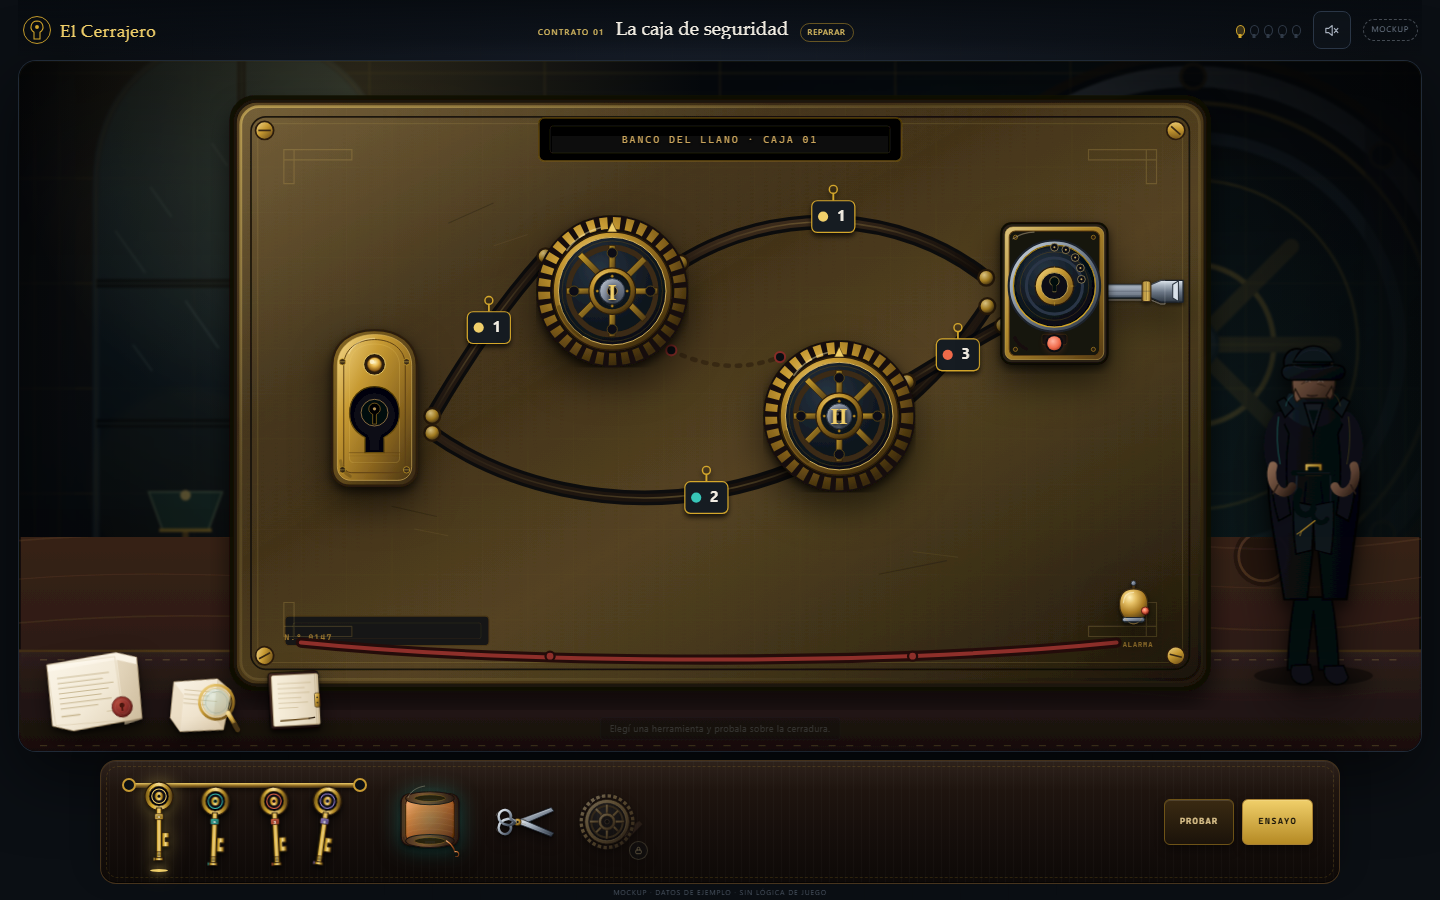
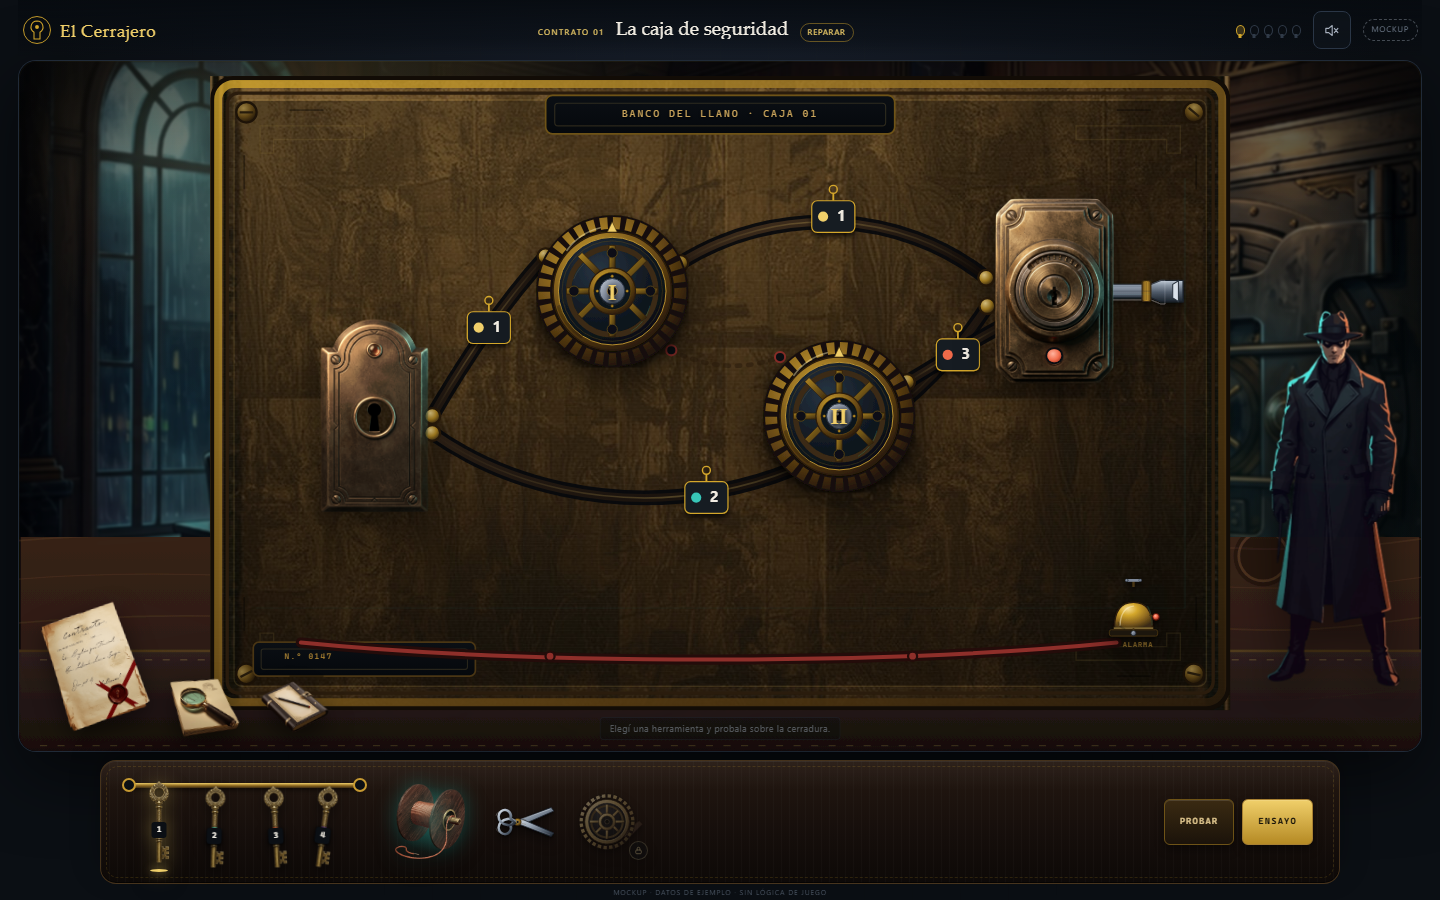
feat(mockup): integrate generated art and refine the workshop
Use the AI background, thief, lock, entry, keys, and paper props. Recolor key variants, compose the plate from texture and frame, and document the web asset review.

diff --git a/mockups/nivel-1-taller/index.html b/mockups/nivel-1-taller/index.html
@@ -46,28 +46,29 @@
     </header>
 
     <main class="stage" id="stage" aria-label="Mesa de trabajo del taller">
-      <img class="scene" src="assets/sprites/fondo-banco.svg" alt="" aria-hidden="true" draggable="false" data-sprite="fondo-banco">
+      <img class="scene" src="assets/sprites/fondo-banco.jpg" alt="" aria-hidden="true" draggable="false" data-sprite="fondo-banco">
       <div class="stage-light" aria-hidden="true"></div>
       <img class="bench" src="assets/sprites/mesa-madera.svg" alt="" aria-hidden="true" draggable="false" data-sprite="mesa-madera">
-      <img class="thief" id="thief" src="assets/sprites/ladron.svg" alt="El ladrón observa desde la penumbra" draggable="false" data-sprite="ladron">
+      <img class="thief" id="thief" src="assets/sprites/ladron.png" alt="El ladrón observa desde la penumbra" draggable="false" data-sprite="ladron">
 
       <div class="table-objects" aria-label="Objetos sobre la mesa">
         <button class="table-object object-contract" type="button" data-overlay="contract" aria-haspopup="dialog" aria-label="Abrir el contrato">
-          <img src="assets/sprites/contrato.svg" alt="" draggable="false" data-sprite="contrato">
+          <img src="assets/sprites/contrato.png" alt="" draggable="false" data-sprite="contrato">
           <span class="object-caption">Contrato</span>
         </button>
         <button class="table-object object-hint" type="button" data-overlay="hint" aria-haspopup="dialog" aria-label="Abrir la pista">
-          <img src="assets/sprites/nota-pista.svg" alt="" draggable="false" data-sprite="nota-pista">
+          <img src="assets/sprites/nota-pista.png" alt="" draggable="false" data-sprite="nota-pista">
           <span class="object-caption">Pista</span>
         </button>
         <button class="table-object object-log" type="button" data-overlay="log" aria-haspopup="dialog" aria-label="Abrir la bitácora">
-          <img src="assets/sprites/libreta.svg" alt="" draggable="false" data-sprite="libreta">
+          <img src="assets/sprites/libreta.png" alt="" draggable="false" data-sprite="libreta">
           <span class="object-caption">Bitácora</span>
         </button>
       </div>
 
       <div class="mechanism-wrap" id="mechanism">
-        <img class="plate" src="assets/sprites/placa-mecanismo.svg" alt="" aria-hidden="true" draggable="false" data-sprite="placa-mecanismo">
+        <img class="plate-texture" src="assets/sprites/placa-textura.jpg" alt="" aria-hidden="true" draggable="false" data-sprite="placa-textura">
+        <img class="plate-frame" src="assets/sprites/placa-marco.svg" alt="" aria-hidden="true" draggable="false" data-sprite="placa-marco">
         <span class="plate-label">Banco del Llano · Caja 01</span>
         <span class="plate-serial">N.º 0147</span>
 
@@ -184,7 +185,7 @@
 
         <div class="part part-entry" data-part="entry" role="button" tabindex="0" aria-label="Entrada del mecanismo">
           <span class="part-aura" aria-hidden="true"></span>
-          <img src="assets/sprites/bocallave-entrada.svg" alt="" draggable="false" data-sprite="bocallave-entrada">
+          <img src="assets/sprites/bocallave-entrada.png" alt="" draggable="false" data-sprite="bocallave-entrada">
         </div>
 
         <div class="part part-gear part-gear-1" data-part="gear-1" role="button" tabindex="0" aria-label="Rueda de memoria I">
@@ -202,7 +203,7 @@
         <div class="part part-lock" data-part="lock" role="button" tabindex="0" aria-label="Cerrojo de la caja">
           <span class="part-aura" aria-hidden="true"></span>
           <img class="lock-bolt" src="assets/sprites/perno.svg" alt="" draggable="false" data-sprite="perno">
-          <img class="lock-body" src="assets/sprites/cilindro-cerradura.svg" alt="" draggable="false" data-sprite="cilindro-cerradura">
+          <img class="lock-body" src="assets/sprites/cilindro-cerradura.png" alt="" draggable="false" data-sprite="cilindro-cerradura">
           <span class="lock-led" aria-hidden="true"></span>
         </div>
 
@@ -212,7 +213,7 @@
       </div>
 
       <div class="tool-cursor" id="tool-cursor" hidden aria-hidden="true">
-        <img id="tool-cursor-img" src="assets/sprites/carrete-cobre.svg" alt="" draggable="false">
+        <img id="tool-cursor-img" src="assets/sprites/carrete-cobre.png" alt="" draggable="false">
         <span class="cursor-dot"></span>
       </div>
 
@@ -225,20 +226,24 @@
       <div class="inventory-keys">
         <span class="key-rail" aria-hidden="true"></span>
         <div class="key-row">
-          <button class="inventory-item inventory-key is-active" type="button" data-tool="key" data-key="1" aria-label="Llave 1">
-            <img src="assets/sprites/llave-1.svg" alt="" draggable="false" data-sprite="llave-1">
+          <button class="inventory-item inventory-key is-active" type="button" data-tool="key" data-key="1" data-cursor="assets/sprites/llave-cursor.png" aria-label="Llave 1">
+            <img src="assets/sprites/llave-1.png" alt="" draggable="false" data-sprite="llave-1">
+            <span class="key-number" aria-hidden="true">1</span>
             <span class="item-name">Llave 1</span>
           </button>
-          <button class="inventory-item inventory-key" type="button" data-tool="key" data-key="2" aria-label="Llave 2">
-            <img src="assets/sprites/llave-2.svg" alt="" draggable="false" data-sprite="llave-2">
+          <button class="inventory-item inventory-key" type="button" data-tool="key" data-key="2" data-cursor="assets/sprites/llave-cursor.png" aria-label="Llave 2">
+            <img src="assets/sprites/llave-2.png" alt="" draggable="false" data-sprite="llave-2">
+            <span class="key-number" aria-hidden="true">2</span>
             <span class="item-name">Llave 2</span>
           </button>
-          <button class="inventory-item inventory-key" type="button" data-tool="key" data-key="3" aria-label="Llave 3">
-            <img src="assets/sprites/llave-3.svg" alt="" draggable="false" data-sprite="llave-3">
+          <button class="inventory-item inventory-key" type="button" data-tool="key" data-key="3" data-cursor="assets/sprites/llave-cursor.png" aria-label="Llave 3">
+            <img src="assets/sprites/llave-3.png" alt="" draggable="false" data-sprite="llave-3">
+            <span class="key-number" aria-hidden="true">3</span>
             <span class="item-name">Llave 3</span>
           </button>
-          <button class="inventory-item inventory-key" type="button" data-tool="key" data-key="4" aria-label="Llave 4">
-            <img src="assets/sprites/llave-4.svg" alt="" draggable="false" data-sprite="llave-4">
+          <button class="inventory-item inventory-key" type="button" data-tool="key" data-key="4" data-cursor="assets/sprites/llave-cursor.png" aria-label="Llave 4">
+            <img src="assets/sprites/llave-4.png" alt="" draggable="false" data-sprite="llave-4">
+            <span class="key-number" aria-hidden="true">4</span>
             <span class="item-name">Llave 4</span>
           </button>
         </div>
@@ -246,7 +251,7 @@
 
       <div class="inventory-tools">
         <button class="inventory-item inventory-tool is-active" type="button" data-tool="wire" aria-label="Carrete de cobre">
-          <img src="assets/sprites/carrete-cobre.svg" alt="" draggable="false" data-sprite="carrete-cobre">
+          <img src="assets/sprites/carrete-cobre.png" alt="" draggable="false" data-sprite="carrete-cobre">
           <span class="item-name">Cable</span>
         </button>
         <button class="inventory-item inventory-tool" type="button" data-tool="scissors" aria-label="Tijeras">

diff --git a/mockups/nivel-1-taller/styles.css b/mockups/nivel-1-taller/styles.css
@@ -490,7 +490,16 @@ body.has-custom-cursor[data-tool="scissors"] .cable-hit {
   transform: translate(-50%, -52%);
 }
 
-.plate {
+.plate-texture {
+  position: absolute;
+  inset: 0;
+  width: 100%;
+  height: 100%;
+  object-fit: cover;
+  pointer-events: none;
+}
+
+.plate-frame {
   position: absolute;
   inset: 0;
   width: 100%;
@@ -502,7 +511,7 @@ body.has-custom-cursor[data-tool="scissors"] .cable-hit {
 .plate-label {
   position: absolute;
   left: 50%;
-  top: 10%;
+  top: 5.9%;
   transform: translate(-50%, -50%);
   color: #c9a45c;
   font-family: var(--font-mono);
@@ -517,7 +526,7 @@ body.has-custom-cursor[data-tool="scissors"] .cable-hit {
 .plate-serial {
   position: absolute;
   left: 7.3%;
-  bottom: 10.5%;
+  bottom: 7.4%;
   color: #a88032;
   font-family: var(--font-mono);
   font-size: clamp(5px, 0.56vw, 8px);
@@ -728,7 +737,6 @@ body[data-tool="scissors"] .cable-hit {
   left: 16.11%;
   top: 53.57%;
   width: 12%;
-  aspect-ratio: 384 / 576;
 }
 
 .part-gear {
@@ -769,7 +777,6 @@ body[data-tool="scissors"] .cable-hit {
   left: 82.78%;
   top: 33.93%;
   width: 13%;
-  aspect-ratio: 512 / 640;
 }
 
 .lock-bolt {
@@ -814,7 +821,7 @@ body[data-tool="scissors"] .cable-hit {
 .part-bell {
   left: 90.56%;
   top: 83.93%;
-  width: 6%;
+  width: 7%;
   aspect-ratio: 1 / 1;
   z-index: 5;
 }
@@ -1043,6 +1050,32 @@ body[data-tool="gear"] .tool-cursor {
   background: var(--brass-2);
   box-shadow: 0 0 8px rgba(240, 207, 106, 0.7);
   transform: translateX(-50%);
+}
+
+.key-number {
+  position: absolute;
+  left: 50%;
+  top: 60%;
+  z-index: 2;
+  display: grid;
+  place-items: center;
+  width: 15px;
+  height: 16px;
+  border: 1px solid var(--key-color);
+  border-radius: 3px;
+  background: #0b0f14;
+  color: var(--key-color);
+  font-family: var(--font-mono);
+  font-size: 8px;
+  font-weight: 700;
+  line-height: 1;
+  box-shadow: 0 1px 3px rgba(0, 0, 0, 0.65);
+  transform: translate(-50%, -50%);
+  pointer-events: none;
+}
+
+.inventory-key.is-active .key-number {
+  box-shadow: 0 0 7px color-mix(in srgb, var(--key-color) 55%, transparent), 0 1px 3px rgba(0, 0, 0, 0.65);
 }
 
 .inventory-tools {

diff --git a/mockups/nivel-1-taller/app.js b/mockups/nivel-1-taller/app.js
@@ -184,9 +184,9 @@ const sounds = {
 /* Cursor y herramienta. */
 function cursorSource(tool, key) {
   if (tool === 'key') {
-    return $(`.inventory-key[data-key="${key}"] img`);
+    return $(`.inventory-key[data-key="${key}"]`);
   }
-  return $(`.inventory-tool[data-tool="${tool}"] img`);
+  return $(`.inventory-tool[data-tool="${tool}"]`);
 }
 
 function setTool(tool, key = state.key) {
@@ -207,7 +207,8 @@ function setTool(tool, key = state.key) {
   });
   const source = cursorSource(tool, state.key);
   if (source !== undefined && source !== null) {
-    toolCursorImg.src = source.src;
+    const sourceImage = $('img', source);
+    toolCursorImg.src = source.dataset.cursor ?? sourceImage.src;
   }
   clearSource();
   hideStageHint();

diff --git a/mockups/nivel-1-taller/REVISION-ASSETS.md b/mockups/nivel-1-taller/REVISION-ASSETS.md
@@ -1,0 +1,112 @@
+# Revisión de assets recibidos
+
+Fecha: 2026-11-17.
+
+Se revisaron las dos carpetas del escritorio:
+
+- `assets IA/`
+- `assets WEB/` (incluidos los ZIP)
+
+Objetivo: separar lo que realmente sirve para “precisión noir”, adaptarlo al mockup y documentar por qué el resto no se usó.
+
+---
+
+## 1. Assets IA integrados
+
+Todos los PNG de IA tenían fondo transparente real (alpha en las esquinas) salvo el fondo, que es una escena opaca. Se recortaron los márgenes transparentes, se agregó un 4 % de padding y se optimizaron.
+
+| Archivo | Original | Uso en el mockup | Ajuste aplicado |
+|---|---:|---|---|
+| `fondo-banco.png` | 2752×1536 | Fondo de escena | Reencuadrado a 2048×1152 y optimizado a `fondo-banco.jpg` |
+| `ladron.png` | 1024×1024 | Personaje | Recorte al cuerpo, 387×960; se usa a la derecha |
+| `bocallave-entrada.png` | 1696×2528 | Entrada | Recorte + reducción a 700×1200 |
+| `cilindro-cerradura.png` | 1856×2304 | Cerrojo | Recorte + reducción a 796×1200 |
+| `carrete-cobre.png` | 1024×1024 | Herramienta cable | Recorte a 850×910 |
+| `contrato.png` | 1024×1024 | Objeto contrato | Recorte a 818×1000 |
+| `libreta.png` | 1024×1024 | Objeto bitácora | Recorte a 1000×782 |
+| `llave-1.png` | 1024×1024 | Llave 1 | Recorte a 327×1072 |
+| `nota-pista (con fondo).png` | 1024×1024 | Objeto pista | Se quitó el fondo negro y se recortó a 905×770 |
+| `placa-mecanismo.png` | 1024×1024 | Placa | Se usó su superficie interior para `placa-textura`; el marco se rehizo en SVG |
+
+### Llaves 2–4
+
+Se generaron a partir de `llave-1.png` recoloreando la banda de esmalte en HSV:
+
+- `llave-2.png`: teal.
+- `llave-3.png`: coral.
+- `llave-4.png`: violeta.
+
+La silueta es idéntica. El número grabado se cubre con un pequeño distintivo HTML (`key-number`) en el inventario, para que cada llave muestre 1–4 sin regenerar la imagen.
+
+### Cursor de llave
+
+Se recortó el arco de la llave para `llave-cursor.png` (126×200). Así el cursor no es una llave de 46 px de alto con el mango fuera de pantalla.
+
+### Nota-pista
+
+La versión `nota-pista.png` era solo la lupa. La versión `(con fondo)` era una libreta + lupa sobre negro. Se hizo un flood fill desde los bordes para volver transparente el fondo negro, se erosionó 1 px el alpha para quitar el borde negro y se recortó. Queda un prop completo de pista.
+
+### Placa
+
+La placa de IA es un panel vertical con marco y dos placas. Para no deformarla en el formato horizontal del taller:
+
+- se extrajo la superficie interior (sin marcos ni placas);
+- se ajustó a 1200×746 (16:10);
+- se le dio un tono bronce/latón y una pátina teal;
+- se guardó como `placa-textura.jpg`;
+- el marco, tornillos y placas se rehicieron en `placa-marco.svg`, un SVG transparente que se superpone a la textura.
+
+Así se usa el material de la placa sin perder el layout horizontal del mecanismo.
+
+---
+
+## 2. Assets WEB revisados
+
+| ZIP | Contenido | Veredicto |
+|---|---|---|
+| `Cog Wheels - Gears (rueda-engranaje).zip` | 110 PNG de engranajes bronce/plata, 26–59 px, y spritesheets | **No usado.** Es pixel art de baja resolución; al escalarlo a 130 px se rompe el estilo pintado. El engranaje SVG actual tiene más detalle y gira mejor. |
+| `gothic_coffee_table_4k.blend (mesa-madera).zip` | `.blend` + texturas difusa/normal/roughness 4K | **No usado.** Es un modelo 3D y un atlas de textura gótico, no una superficie de mesa lista. Sin Blender no se puede renderizar; el atlas es demasiado recargado para el banco. |
+| `KayKit_RPGToolsBits_1.0_FREE (tijeras y mas herramientas).zip` | 206 modelos FBX/glTF/OBJ y texturas; incluye `scissors.fbx` | **No usado.** Estilo cartoon/low-poly, incompatible con la dirección noir. Además requiere Blender para renderizar. |
+| `Metal Textures (placa-mecanismo).zip` | 404 texturas de metal de 64×64 (JustMetal, Grassed, Old, Rusty) | **No usado.** 64×64 es demasiado poco para una placa de 1200 px; se vería repetido y pixelado. La textura de la IA tiene mejor patina. |
+| `old-screw-nail-heads-set-metal-bolts-rivets (pernos).zip` | `3275.jpg`, hoja de cabezas de tornillos sobre damero | **No usado.** Es un JPG con fondo damero, no recortes transparentes. La placa ya tiene tornillos en el marco SVG. |
+
+### Conclusión de la revisión WEB
+
+Los packs no eran sprites listos para este estilo: eran pixel art, modelos 3D cartoon, texturas de 64 px o un atlas de mesa. Por eso se conservaron los SVG detallados para las piezas mecánicas y se usaron los assets IA para los materiales y props principales.
+
+Si más adelante se quiere subir el realismo de los engranajes, pernos, tijeras, campana o mesa, el siguiente paso sería renderizar modelos 3D con Blender o encargar esos sprites en el mismo estilo de la IA. Los SVG actuales son consistentes y funcionan, pero son la parte más “ilustrada” del conjunto.
+
+---
+
+## 3. Piezas que siguen en SVG
+
+| Archivo | Estado | Por qué |
+|---|---|---|
+| `rueda-engranaje.svg` | Se usa | Geometría simétrica, dientes parejos, gira sin deformarse; se oscureció para combinar con la IA |
+| `perno.svg` | Se usa | Barra de acero con collar de latón; el asset WEB no tenía un perno adecuado |
+| `campana-alarma.svg` | Se usa | Se rediseñó con base, badajo y striker rojo; el pack no traía campana |
+| `tijeras.svg` | Se usa | Vector limpio; el modelo de KayKit era cartoon |
+| `engranaje-herramienta.svg` | Se usa | Icono de herramienta bloqueada; el engranaje WEB era pixel art |
+| `mesa-madera.svg` | Se usa | Superficie de banco oscura y limpia; el .blend gótico no era un sprite |
+| `placa-marco.svg` | Nuevo | Marco de bronce, tornillos y placas sobre la textura de la IA |
+
+---
+
+## 4. Ajustes técnicos aplicados
+
+- Recorte de alpha y padding del 4 % en todos los props.
+- Fondo y textura de placa convertidos a JPG para bajar peso; los props con transparencia siguen en PNG-24.
+- Llaves 2–4 recoloreadas desde una sola silueta.
+- Números de llave en HTML para no hornear cuatro imágenes distintas.
+- Cursor de llave recortado al arco.
+- Nota-pista con fondo eliminado por flood fill.
+- Placa compuesta por textura + marco SVG.
+- Placa y fondo con versiones optimizadas; los PNG originales quedan en las carpetas del escritorio.
+- El mockup sigue sin tocar `src/`, la lógica ni los tests del juego.
+
+## 5. Pendiente / opcional
+
+- Un engranaje fotorrealista en PNG sería la mayor mejora visual pendiente.
+- Un perno y una campana pintados con la misma luz de la IA.
+- Una mesa de nogal fotorrealista recortada en primer plano.
+- Si se consiguen, se guardan con los mismos nombres y el mockup los toma sin cambiar la estructura.

diff --git a/mockups/nivel-1-taller/README.md b/mockups/nivel-1-taller/README.md
@@ -31,22 +31,23 @@ Los botones `Probar` y `Ensayo` no ejecutan la lógica del juego: son demostraci
 
 ## Sprites
 
-Los archivos actuales son **SVG provisionales** para que la interfaz ya se pueda evaluar. Los definitivos deben ir en `assets/sprites/` con los nombres y tamaños del índice [`GUIA-ASSETS.md`](GUIA-ASSETS.md).
+La mayoría de los props principales ya usan los **assets de IA** integrados: fondo, ladrón, contrato, pista, libreta, bocallave, cilindro, carrete, llaves 1–4 y la textura de la placa. Quedan en SVG las piezas mecánicas que necesitan geometría exacta: engranajes, perno, campana, tijeras, engranaje-herramienta y mesa.
 
-La guía está dividida en dos rutas:
+La revisión completa de lo recibido está en [`REVISION-ASSETS.md`](REVISION-ASSETS.md): qué se usó, qué se ajustó y por qué los ZIP de la carpeta WEB no encajaron.
 
-- [`GUIA-ASSETS-IA.md`](GUIA-ASSETS-IA.md): prompts completos para generar con IA el fondo, el ladrón, el papel, el cuero y los props orgánicos.
-- [`GUIA-ASSETS-WEB.md`](GUIA-ASSETS-WEB.md): palabras clave, sitios, licencias y características para buscar engranajes, pernos, tijeras, campanas, texturas de madera/latón y piezas de geometría exacta.
+El índice de assets y las dos guías siguen disponibles:
 
-En resumen: **IA para atmósfera y materiales; web/SVG para mecánica y geometría exacta; Photopea para limpiar, recolorear y componer.**
+- [`GUIA-ASSETS.md`](GUIA-ASSETS.md): índice y tabla de decisión.
+- [`GUIA-ASSETS-IA.md`](GUIA-ASSETS-IA.md): prompts para generar con IA.
+- [`GUIA-ASSETS-WEB.md`](GUIA-ASSETS-WEB.md): palabras clave, sitios y licencias para buscar.
 
-Para probar los PNG definitivos sin cambiar el código:
+Para probar PNG/JPEG definitivos sin cambiar el código:
 
 ```text
 index.html?sprites=png
 ```
 
-Ese parámetro reemplaza cada `assets/sprites/nombre.svg` por `assets/sprites/nombre.png`; si un PNG falta, conserva el SVG.
+El mockup usa `fondo-banco.jpg` y `placa-textura.jpg` optimizados; si aparece un `fondo-banco.png` o `placa-textura.png` en la carpeta, `?sprites=png` lo prefiere.
 
 ## Archivos
 
@@ -54,10 +55,11 @@ Ese parámetro reemplaza cada `assets/sprites/nombre.svg` por `assets/sprites/no
 index.html               estructura y objetos de la escena
 styles.css               dirección visual, layout y estados
 app.js                   interacción de demo, modales, cursor y sonido
-assets/sprites/*.svg     sprites provisionales
+assets/sprites/          PNG de IA, JPG optimizados y SVG de mecánica
 GUIA-ASSETS.md           índice y tabla de decisión de assets
 GUIA-ASSETS-IA.md        prompts para generar assets con IA
 GUIA-ASSETS-WEB.md       keywords y características para buscar assets
+REVISION-ASSETS.md       revisión de los assets recibidos y decisiones
 preview-1440.png         captura de referencia
 preview-390.png          captura móvil de referencia
 ```

diff --git a/mockups/nivel-1-taller/GUIA-ASSETS.md b/mockups/nivel-1-taller/GUIA-ASSETS.md
@@ -119,13 +119,15 @@ Opcionales: `resorte.png`, `terminal.png`, `chispa.png`.
 ## Reglas de integración
 
 - Props: PNG-24 con alfa, 2× de la medida final, 4–8 % de margen transparente.
-- Fondo: full-bleed, sin transparencia, 2048×1280.
+- Fondo: full-bleed, sin transparencia, 2048×1152 (16:9) o 2048×1280 (16:10); el mockup usa 2048×1152.
 - Mesa: PNG con transparencia arriba del borde superior; abajo, madera.
 - Placa: PNG con transparencia fuera del rectángulo; placas de texto en blanco para superponer en HTML.
 - Llaves: una sola silueta; las variantes 2–4 se recolorean.
 - Engranaje: simétrico, centrado, sin texto; el numeral I/II va en HTML.
 - Sin sombras horneadas fuertes: el CSS ya aplica sombras.
 - Sin texto, logos, watermarks ni rips de juegos.
+
+**Estado del mockup:** el fondo y la textura de la placa se optimizaron a JPG; los props con transparencia siguen en PNG. La placa se compone de `placa-textura.jpg` + `placa-marco.svg`. Los originales PNG quedan en las carpetas del escritorio.
 
 ## Créditos
 
